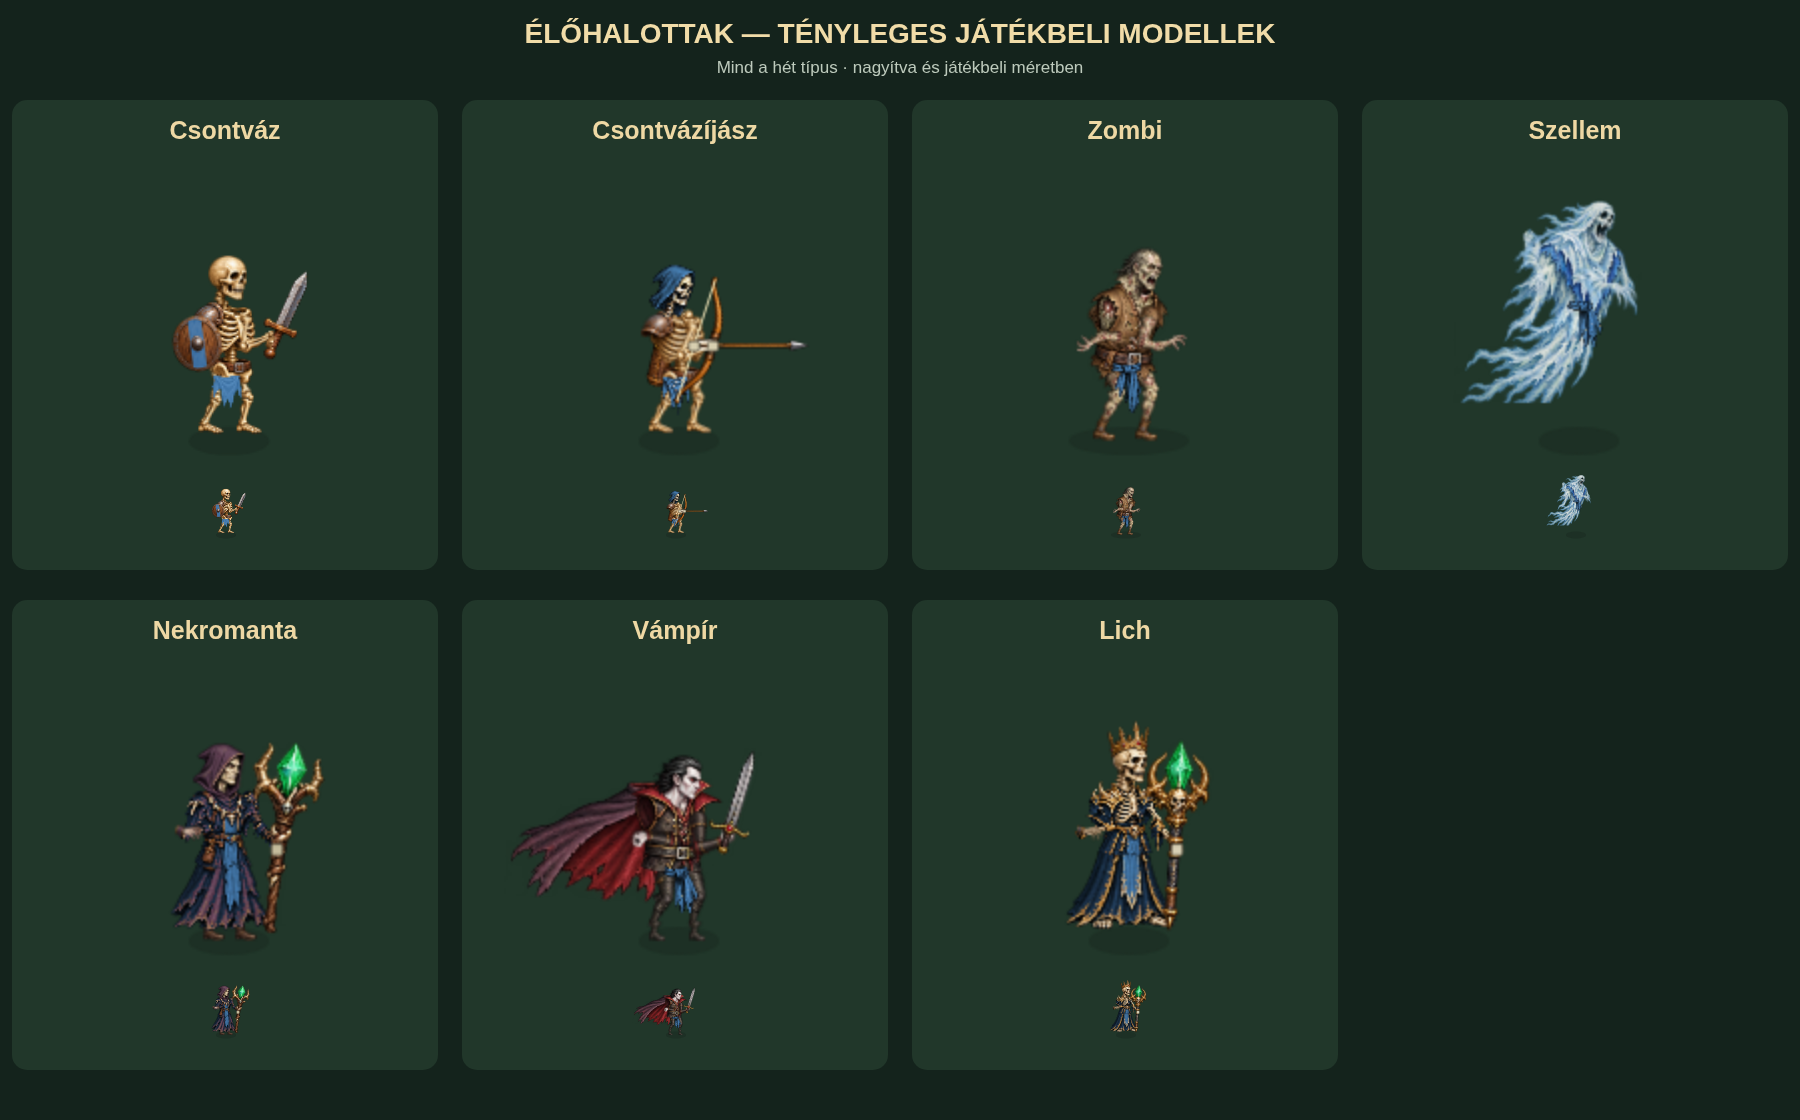
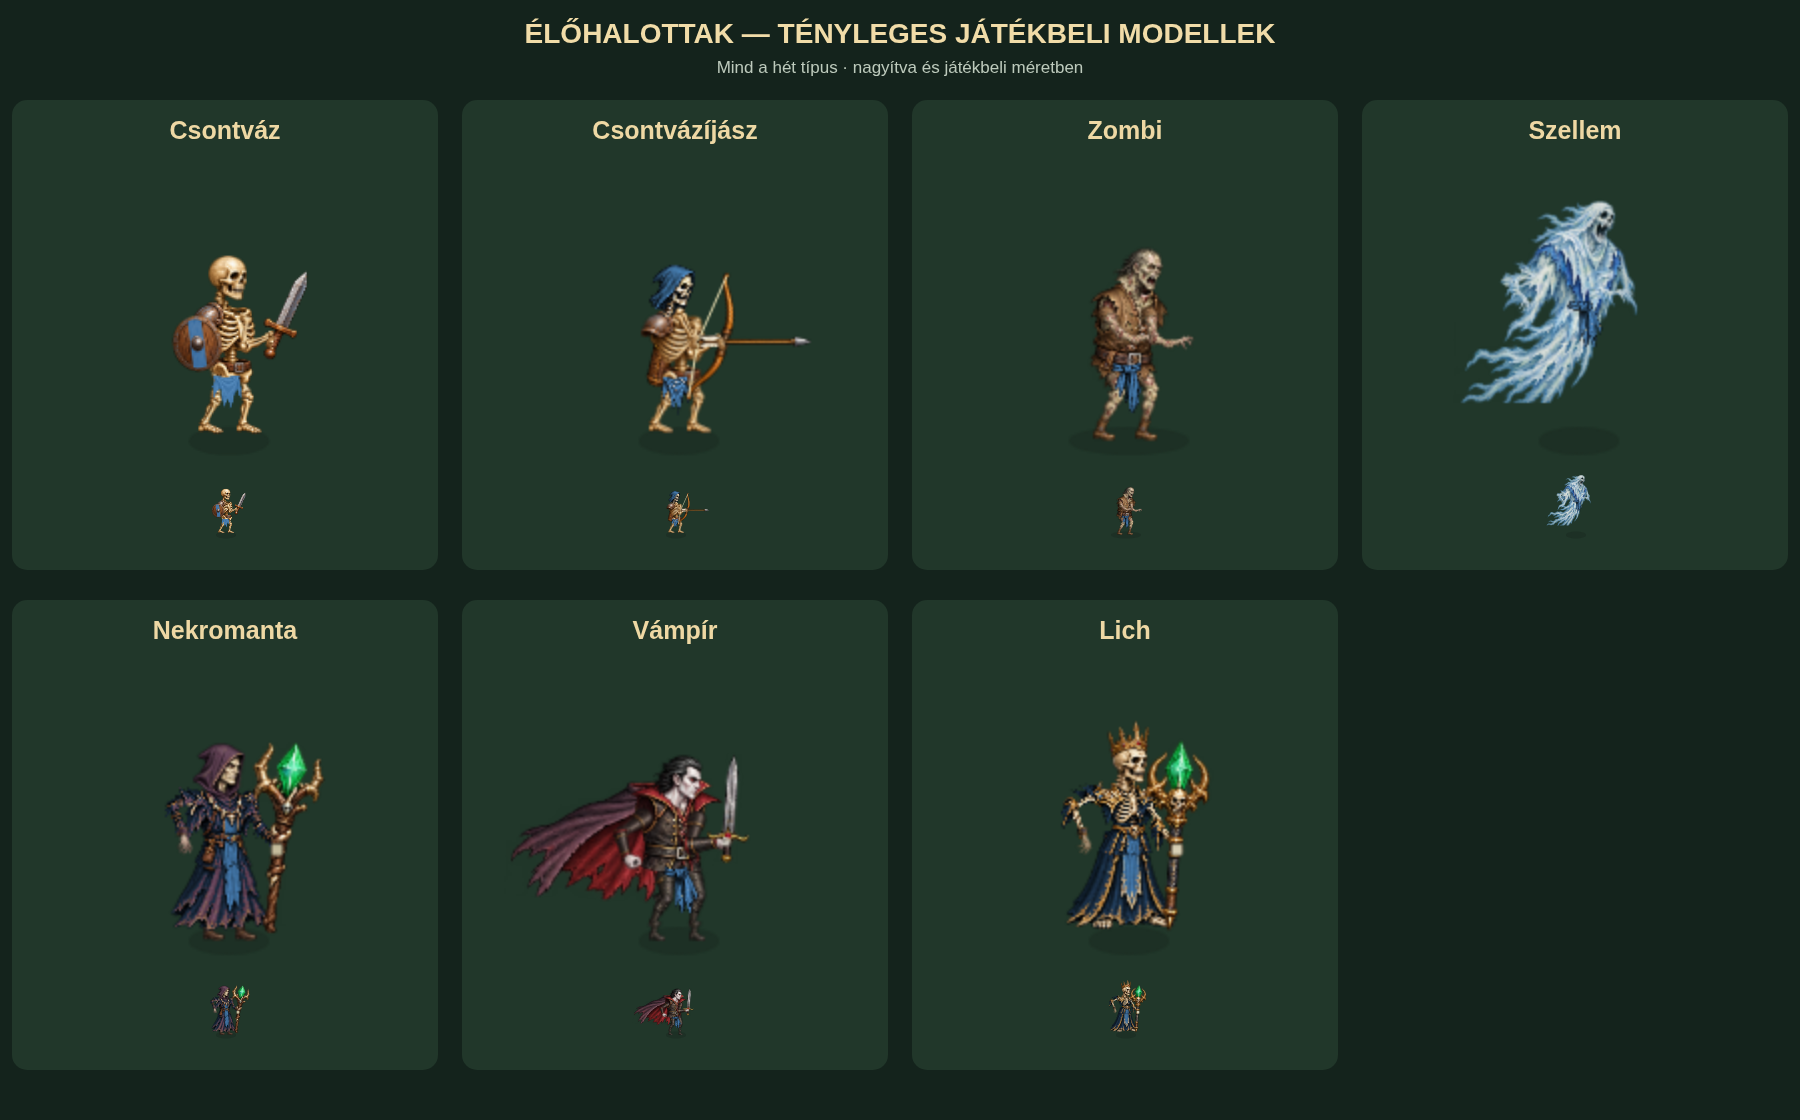
Correct Undead elbows, wrist grips and Skeleton Archer draw pose

diff --git a/src/rendering/undead-figures.js b/src/rendering/undead-figures.js
@@ -65,58 +65,83 @@ function eliteMark(g,elite){if(!elite)return;g.strokeStyle='#f2d37e';g.lineWidth
 
 function drawSkeletonArcher(g,R,color,p,elite,pose){
   const walk=pose.state==='walk'?p.walk:0,lift=pose.state==='walk'?Math.cos(p.wheel):0,bob=Math.abs(walk)*.45,attacking=pose.state==='attack',released=attacking&&pose.frame>=7,recovery=released?(pose.frame-7)/4:0,draw=attacking?(released?1-recovery:p.wind):0;
-  const grip=attacking?[20,-33]:[10+walk*.5,-23],nock=attacking?[mix(16,1,draw),-33]:[5,-23],angle=attacking?0:.28-walk*.08,bend=attacking&&!released?draw*.025:0,arrowCenter=[nock[0]+15,nock[1]],arrowLoaded=!p.death&&!released;
+  // Draw to the cheek, with the rear elbow behind the shoulder. Reusing the
+  // human nock position put the shorter skeleton's forearm across its neck.
+  const grip=attacking?[20,-33]:[13+walk*.5,-24],nock=attacking?[mix(15,-4,draw),-33]:[6,-24],angle=attacking?0:.28-walk*.08,bend=attacking&&!released?draw*.025:0,arrowCenter=[nock[0]+15,nock[1]],arrowLoaded=!p.death&&!released;
   const hips=[[-2.8,-17+bob],[3.2,-17+bob]],ankles=[[-5-walk*3.5,-2.5-Math.max(0,-lift)*2.4],[5+walk*3.5,-2.5-Math.max(0,lift)*2.4]];
+  const hands=[p.death?[-4,-20]:nock,grip],handAngles=[0,-.6+angle],shoulders=[[-6.3,-28.6],[5.4,-28.7]],wristOffset=skeleton.grip,handScale=wristOffset.handScale;
+  const wrists=hands.map((hand,i)=>{const x=(wristOffset.wrist[0]-wristOffset.handHole[0])*handScale,y=(wristOffset.wrist[1]-wristOffset.handHole[1])*handScale,a=handAngles[i];return [hand[0]+Math.cos(a)*x-Math.sin(a)*y,hand[1]+Math.sin(a)*x+Math.cos(a)*y];});
+  const elbows=shoulders.map((s,i)=>joint(s,wrists[i],i?7.8:8,i?7.8:8,i?1:-1));
   g.save();fall(g,p.death);
   const knees=hips.map((hip,i)=>{const knee=joint(hip,ankles[i],7.6,7.5,-1);limb(g,R,skeleton,'thigh',hip,knee);limb(g,R,skeleton,'shin',knee,ankles[i]);part(g,R,skeleton,'foot',ankles[i][0]-1.8,ankles[i][1]-.55,3);return knee;});
   g.save();g.translate(0,bob);const q=archer.parts.quiver;g.save();g.translate(-7,-31);g.rotate(-.16);g.drawImage(R.archerTexture,...q,-3,-4,23*q[2]/q[3],23);g.restore();
-  const hands=[p.death?[-4,-20]:nock,grip],shoulders=[[-4.4,-28.5],[4.3,-28.5]],elbows=shoulders.map((s,i)=>joint(s,hands[i],i?8.7:8.1,i?8.7:8.1,i?1:-1));
   limb(g,R,skeleton,'upperArm',shoulders[0],elbows[0]);part(g,R,skeleton,'torso',-9.1,-32.6,22);
   anchored(g,R,fighters,'saHead','neck',[0,-32],14,color);part(g,R,skeleton,'cloth',-3.7,-15,10,color);
-  limb(g,R,skeleton,'forearmBare',elbows[0],hands[0]);limb(g,R,skeleton,'upperArm',shoulders[1],elbows[1]);limb(g,R,skeleton,'forearmBare',elbows[1],hands[1]);
+  limb(g,R,skeleton,'forearmBare',elbows[0],wrists[0]);limb(g,R,skeleton,'upperArm',shoulders[1],elbows[1]);limb(g,R,skeleton,'forearmBare',elbows[1],wrists[1]);
+  const handPart=(name,i)=>{const r=skeleton.parts[name];g.save();g.translate(...hands[i]);g.rotate(handAngles[i]);g.drawImage(R.skeletonTexture,...r,(r[0]-wristOffset.handHole[0])*handScale,(r[1]-wristOffset.handHole[1])*handScale,r[2]*handScale,r[3]*handScale);g.restore();};
+  hands.forEach((_,i)=>handPart('hand',i));
   const bow=drawArcherEquipment(g,R,{grip,nock,angle,bend,arrowCenter,arrowLoaded,released,recovery});
-  for(const hand of hands){g.fillStyle='#d8cfb0';g.strokeStyle='#686454';g.lineWidth=.4;g.beginPath();g.roundRect(hand[0]-1.4,hand[1]-1.1,2.8,2.5,.7);g.fill();g.stroke();}
-  eliteMark(g,elite);g.restore();g.restore();return {painted:true,style:'painted-skeleton-archer',hips,ankles,knees,hands,elbows,grip,nock,arrowCenter,arrowLoaded,released,...bow,death:p.death};
+  hands.forEach((_,i)=>handPart('gripFingers',i));
+  eliteMark(g,elite);g.restore();g.restore();return {painted:true,style:'painted-skeleton-archer',hips,ankles,knees,hands,wrists,shoulders,elbows,handAngles,grip,nock,arrowCenter,arrowLoaded,released,...bow,death:p.death};
 }
 function drawFighter(g,R,color,p,elite,pose,key){
   const vampire=key==='und_vampire',prefix=vampire?'v':'z',walk=pose.state==='walk'?p.walk:0,lift=pose.state==='walk'?Math.cos(p.wheel):0,recovery=clamp((p.recovery-.2)/.8),strike=p.strike*(1-recovery),wind=p.wind*(1-p.strike),bob=Math.abs(walk)*.4;
-  const hips=[[-3,-17+bob],[3,-17+bob]],stride=vampire?3.5:2.6,ankles=[[-5-walk*stride,-2.3-Math.max(0,-lift)*2],[5+walk*stride,-2.3-Math.max(0,lift)*2]],hands=vampire?[[-9,-23],[13-5*wind+5*strike,-25-13*wind]]:[[-9+2*strike,-21-2*wind],[12-5*wind+6*strike,-22-7*wind]];
-  const shoulders=[[-7,-29],[6,-29]],elbows=shoulders.map((s,i)=>joint(s,hands[i],8,8,i?1:-1));
+  const hips=[[-3,-17+bob],[3,-17+bob]],stride=vampire?3.5:2.6,ankles=[[-5-walk*stride,-2.3-Math.max(0,-lift)*2],[5+walk*stride,-2.3-Math.max(0,lift)*2]];
+  // Both zombie claws reach forward; the relaxed vampire arm hangs beside its
+  // body. None of these elbows folds across the hidden centre of the torso.
+  const hands=vampire?[[-10,-18],[13-5*wind+5*strike,-25-13*wind]]:[[6-3*wind+2*strike,-23-2*wind-strike],[14-3*wind+4*strike,-22-wind-strike]];
+  const shoulders=vampire?[[-7,-29],[6,-29]]:[[-5,-29],[5.5,-29]];
+  const wrists=hands.map(hand=>[...hand]);
+  const handHeight=4.8,handRect=fighters.parts.vHand,ha=fighters.anchors.vHand,handScale=handHeight/handRect[3];
+  if(vampire)wrists[1]=[11+3*wind+6*strike,-24-12*wind+6*strike];
+  const elbows=shoulders.map((shoulder,i)=>joint(shoulder,wrists[i],vampire?8:7,vampire?8:7,1));
+  let swordAngle=0;
+  if(vampire){
+    const x=(ha.grip[0]-ha.wrist[0])*handRect[2]*handScale,y=(ha.grip[1]-ha.wrist[1])*handHeight;
+    const foreAngle=Math.atan2(wrists[1][1]-elbows[1][1],wrists[1][0]-elbows[1][0]),flex=.8-.3*wind-.1*strike;
+    swordAngle=foreAngle-Math.atan2(y,x)+flex;
+    hands[1]=[wrists[1][0]+Math.cos(swordAngle)*x-Math.sin(swordAngle)*y,wrists[1][1]+Math.sin(swordAngle)*x+Math.cos(swordAngle)*y];
+  }
   g.save();fall(g,p.death);
   const knees=hips.map((hip,i)=>{const knee=joint(hip,ankles[i],7.8,7.4,-1);limb(g,R,fighters,prefix+'Thigh',hip,knee);limb(g,R,fighters,prefix+'Shin',knee,ankles[i]);anchored(g,R,fighters,prefix+'Boot','ankle',ankles[i],5);return knee;});
   g.save();g.translate(0,bob);
   if(vampire)anchored(g,R,fighters,'vCape','root',[-6,-35],30,undefined,.05+walk*.04);
-  limb(g,R,fighters,prefix+'Upper',shoulders[0],elbows[0]);
   const neck=body(g,R,fighters,prefix+'Torso',[1,vampire?-19:-17],vampire?26:24);
   anchored(g,R,fighters,prefix+'Head','neck',neck,vampire?14:13);part(g,R,fighters,prefix+'Cloth',-3.5,-17,12,color);
-  limb(g,R,fighters,prefix+'Fore',elbows[0],hands[0]);limb(g,R,fighters,prefix+'Upper',shoulders[1],elbows[1]);limb(g,R,fighters,prefix+'Fore',elbows[1],hands[1]);
-  const swordAngle=.3-1.15*wind+strike;if(vampire)anchored(g,R,fighters,'vSword','grip',hands[1],27,undefined,swordAngle);
-  eliteMark(g,elite);g.restore();g.restore();return {painted:true,style:vampire?'painted-vampire':'painted-zombie',hips,ankles,knees,hands,elbows,shoulders,neck,stride:walk*stride,swordAngle,death:p.death};
+  for(let i=0;i<2;i++){limb(g,R,fighters,prefix+'Upper',shoulders[i],elbows[i]);limb(g,R,fighters,vampire&&i===1?'vForeBare':prefix+'Fore',elbows[i],wrists[i]);}
+  if(vampire){
+    anchored(g,R,fighters,'vHand','grip',hands[1],handHeight,undefined,swordAngle);
+    anchored(g,R,fighters,'vSword','grip',hands[1],27,undefined,swordAngle);
+    // Fingers close over the hilt, while the independently placed wrist stays
+    // exactly at the end of the forearm throughout the swing.
+    g.save();g.translate(...hands[1]);g.rotate(swordAngle);g.strokeStyle='#c8c4ba';g.lineWidth=.7;g.lineCap='round';for(const y of [-.55,.15,.8]){g.beginPath();g.moveTo(-.7,y);g.lineTo(.55,y+.1);g.stroke();}g.restore();
+  }
+  eliteMark(g,elite);g.restore();g.restore();return {painted:true,style:vampire?'painted-vampire':'painted-zombie',hips,ankles,knees,hands,wrists,elbows,shoulders,neck,stride:walk*stride,swordAngle,death:p.death};
 }
 function drawGhost(g,R,color,p,elite,pose){
-  const phase=pose.frame/8*TAU,bob=-8+Math.sin(phase)*1.4+Math.cos(phase)*.35,rest=clamp((p.recovery-.2)/.8),strike=p.strike*(1-rest),wind=p.wind*(1-p.strike),hands=[[-9,-29],[13-3*wind+10*strike,-27-8*wind+2*strike]],shoulders=[[-10,-34],[8,-34]],elbows=shoulders.map((s,i)=>joint(s,hands[i],7,12.5,i?1:-1));
+  const phase=pose.frame/8*TAU,bob=-8+Math.sin(phase)*1.4+Math.cos(phase)*.35,rest=clamp((p.recovery-.2)/.8),strike=p.strike*(1-rest),wind=p.wind*(1-p.strike),hands=[[-12,-24],[13-3*wind+10*strike,-27-8*wind+2*strike]],shoulders=[[-10,-34],[8,-34]],elbows=shoulders.map((s,i)=>joint(s,hands[i],7,8,1));
   g.save();g.globalAlpha=.9*(1-p.death);g.translate(p.death*2,bob-p.death*12);
   anchored(g,R,fighters,'gTail','root',[1,-21],25,undefined,Math.sin(phase)*.06);
-  limb(g,R,fighters,'gUpper',shoulders[0],elbows[0]);const neck=body(g,R,fighters,'gTorso',[1,-21],28);anchored(g,R,fighters,'gHead','neck',neck,16);
-  part(g,R,fighters,'vCloth',-2.5,-26,12,color);limb(g,R,fighters,'gFore',elbows[0],hands[0]);limb(g,R,fighters,'gUpper',shoulders[1],elbows[1]);limb(g,R,fighters,'gFore',elbows[1],hands[1]);eliteMark(g,elite);
+  const neck=body(g,R,fighters,'gTorso',[1,-21],28);anchored(g,R,fighters,'gHead','neck',neck,16);
+  part(g,R,fighters,'vCloth',-2.5,-26,12,color);limb(g,R,fighters,'gUpper',shoulders[0],elbows[0]);limb(g,R,fighters,'gFore',elbows[0],hands[0]);limb(g,R,fighters,'gUpper',shoulders[1],elbows[1]);limb(g,R,fighters,'gFore',elbows[1],hands[1]);eliteMark(g,elite);
   g.restore();return {painted:true,style:'painted-ghost',legs:0,floating:true,bob,hands,shoulders,elbows,neck,death:p.death};
 }
 function staffTip(prefix,hand,angle){const name=prefix+'Staff',r=casters.parts[name],a=casters.anchors[name],height=casters.staffHeights[name],x=(a.tip[0]-a.grip[0])*r[2]*height/r[3],y=(a.tip[1]-a.grip[1])*height;return [hand[0]+Math.cos(angle)*x-Math.sin(angle)*y,hand[1]+Math.sin(angle)*x+Math.cos(angle)*y];}
-function launchPoint(key){return key==='und_skeleton_archer'?[16*.95,-33*.95]:staffTip(key==='und_lich'?'l':'n',[13,-21],key==='und_lich'?.08:.35);}
+function launchPoint(key){return key==='und_skeleton_archer'?[11*.95,-33*.95]:staffTip(key==='und_lich'?'l':'n',[13,-21],key==='und_lich'?.08:.35);}
 function drawCaster(g,R,color,p,elite,pose,key){
   const lich=key==='und_lich',prefix=lich?'l':'n',walk=pose.state==='walk'?p.walk:0,lift=pose.state==='walk'?Math.cos(p.wheel):0,release=pose.state==='attack'&&pose.frame>=7,rest=release?clamp((pose.frame-7)/4):0,cast=p.strike*(1-rest),summoning=Number.isInteger(pose.summonFrame),summon=summoning?Math.sin((pose.summonFrame+1)/7*Math.PI):0;
-  const hands=[[-11-2*summon+3*cast,-25-9*summon-4*cast],[13,-21]],shoulders=[[-6,-34],[6,-34]],elbows=shoulders.map((s,i)=>joint(s,hands[i],7.5,7.5,i?1:-1)),angle=lich?.08:.08+.27*cast,tip=staffTip(prefix,hands[1],angle),waist=[1,lich?-24:-23];
+  const hands=[[-11-2*summon+3*cast,-25-9*summon-4*cast],[13,-21]],shoulders=[[-6,-34],[6,-34]],elbows=shoulders.map((s,i)=>joint(s,hands[i],7.5,7.5,1)),angle=lich?.08:.08+.27*cast,tip=staffTip(prefix,hands[1],angle),waist=[1,lich?-24:-23];
   g.save();fall(g,p.death);
   if(!lich)for(const [x,d]of [[-4,-1],[4,1]])anchored(g,R,casters,'boot','ankle',[x+d*walk*2,-2-Math.max(0,d*lift)*1.6],4.5);
   anchored(g,R,casters,prefix+'Robe','waist',waist,lich?25:24,color,walk*.025+lift*.008);
-  limb(g,R,casters,prefix+'Upper',shoulders[0],elbows[0],color);
   const neck=body(g,R,casters,prefix+'Torso',waist,lich?20:22,color);anchored(g,R,casters,prefix+'Head','neck',neck,lich?18:14);
-  limb(g,R,casters,prefix+'Fore',elbows[0],hands[0],color);limb(g,R,casters,prefix+'Upper',shoulders[1],elbows[1],color);limb(g,R,casters,prefix+'Fore',elbows[1],hands[1],color);
+  limb(g,R,casters,prefix+'Upper',shoulders[0],elbows[0],color);limb(g,R,casters,prefix+'Fore',elbows[0],hands[0],color);limb(g,R,casters,prefix+'Upper',shoulders[1],elbows[1],color);limb(g,R,casters,prefix+'Fore',elbows[1],hands[1],color);
   anchored(g,R,casters,prefix+'Staff','grip',hands[1],casters.staffHeights[prefix+'Staff'],undefined,angle);
   g.fillStyle=lich?'#d7cfb4':'#c4bc9c';g.strokeStyle='#625b49';g.lineWidth=.4;g.beginPath();g.roundRect(11.6,-22.2,2.8,2.8,.6);g.fill();g.stroke();
-  anchored(g,R,casters,prefix+'Palm','wrist',hands[0],5);
-  if(!p.death){glow(g,tip,1.2+(pose.state==='attack'?cast*1.4+windGlow(p):pose.state==='channel'?1.1+Math.sin(pose.frame/8*TAU)*.25:0));if(summoning){glow(g,[-9,-31],2+summon);g.strokeStyle='#62e5a9';g.lineWidth=.8;g.beginPath();g.ellipse(0,0,9+summon*6,2.5+summon,0,0,TAU);g.stroke();}}
-  eliteMark(g,elite);g.restore();return {painted:true,style:lich?'painted-lich':'painted-necromancer',hands,shoulders,elbows,neck,waist,staffTip:tip,release:launchPoint(key),summoning,death:p.death};
+  const palmAngle=Math.atan2(hands[0][1]-elbows[0][1],hands[0][0]-elbows[0][0]),palmAnchor=casters.anchors[prefix+'Palm'],palmRect=casters.parts[prefix+'Palm'],palmHeight=5,px=(palmAnchor.center[0]-palmAnchor.wrist[0])*palmRect[2]*palmHeight/palmRect[3],py=(palmAnchor.center[1]-palmAnchor.wrist[1])*palmHeight,sourceAngle=Math.atan2(py,px),rotation=palmAngle-sourceAngle,palm=[hands[0][0]+Math.cos(rotation)*px-Math.sin(rotation)*py,hands[0][1]+Math.sin(rotation)*px+Math.cos(rotation)*py];
+  anchored(g,R,casters,prefix+'Palm','wrist',hands[0],palmHeight,undefined,rotation);
+  if(!p.death){glow(g,tip,1.2+(pose.state==='attack'?cast*1.4+windGlow(p):pose.state==='channel'?1.1+Math.sin(pose.frame/8*TAU)*.25:0));if(summoning){glow(g,palm,2+summon);g.strokeStyle='#62e5a9';g.lineWidth=.8;g.beginPath();g.ellipse(0,0,9+summon*6,2.5+summon,0,0,TAU);g.stroke();}}
+  eliteMark(g,elite);g.restore();return {painted:true,style:lich?'painted-lich':'painted-necromancer',hands,shoulders,elbows,neck,waist,staffTip:tip,palm,palmAngle,release:launchPoint(key),summoning,death:p.death};
 }
 export function drawUndead(g,R,color,p,elite,pose,key){
   if(key==='und_skeleton_archer')return drawSkeletonArcher(g,R,color,p,elite,pose);

diff --git a/src/config/app.js b/src/config/app.js
@@ -1,6 +1,6 @@
 export const APP = Object.freeze({
-  version: '4.47.0',
-  label: 'V4.47.0 · ÉLŐHALOTTAK',
+  version: '4.47.1',
+  label: 'V4.47.1 · ÉLŐHALOTTAK',
   title: 'Roadlords – Élőhalott egységek',
   repository: 'krisztianmatekiss/Roadlords',
   musicRoot: 'https://raw.githubusercontent.com/krisztianmatekiss/roadlords-music/main/',

diff --git a/docs/undead-figures-4.47.md b/docs/undead-figures-4.47.md
@@ -9,3 +9,9 @@ Két eredeti, átlátszó PNG-részatlasz készült a jóváhagyott Heroes III h
 A `tests/undead-figures.cjs` valódi böngészős próbája ellenőrzi mind a hét modellt, a járás/támadás/halál képkockáit, a nyolc csapatszínt és elitjelölést, a nyíl és varázslatok indulópontját, tényleges találati időzítést, életlopást, Lich-sugarat és idézést, továbbá az A/B kapcsolást, 50 szimulált másodpercnyi vegyes harcot, 1280×800-as elhelyezést és az 1000 induló egységes csatát. A jelentés és mozgásgaléria az `artifacts` könyvtárba kerül. Az újrahasznált emberi Íjász és sima Csontváz korábbi regressziós próbái külön is futnak.
 
 A terheléses ellenőrzés működést és korlátos képkockatárat igazol; nem eszközfüggetlen 60 FPS ígéret. A nyilvános előnézet tényleges renderelt modelleket mutat: `public/previews/undead-in-game.png`.
+
+## V4.47.1 – karok és kezek
+
+A hátsó könyökök a törzsön kívül maradnak, a Zombi mindkét karma előre nyúl. A Vámpír külön kéz- és alkarillesztést kapott: a kard a tenyér fogáspontján marad, a csukló a mozdulat során legfeljebb 0,8 radiánnal hajlik el az alkartól. A varázslók szabad keze követi az alkar irányát. A Szellem két karja anatómiailag elérhető célpontokat használ. A Csontvázíjász a rövidebb törzséhez illő vállakat, hátrébb húzott ideget és a sima Csontváz festett, csontos kézrészeit használja. A nyíl új indulópontja a tényleges utolsó nockolt nyíl középpontjával egyezik.
+
+A közös böngészőteszt mind a hat új típusnál összeveti a teljes modellt a karok nélküli rajzzal: nyugalomban, hátralendítéskor és találatkor mindkét felkar és alkar tényleges képpontjai látszanak. A csuklók irányát az összes mozgásfázisban külön is ellenőrzi.
